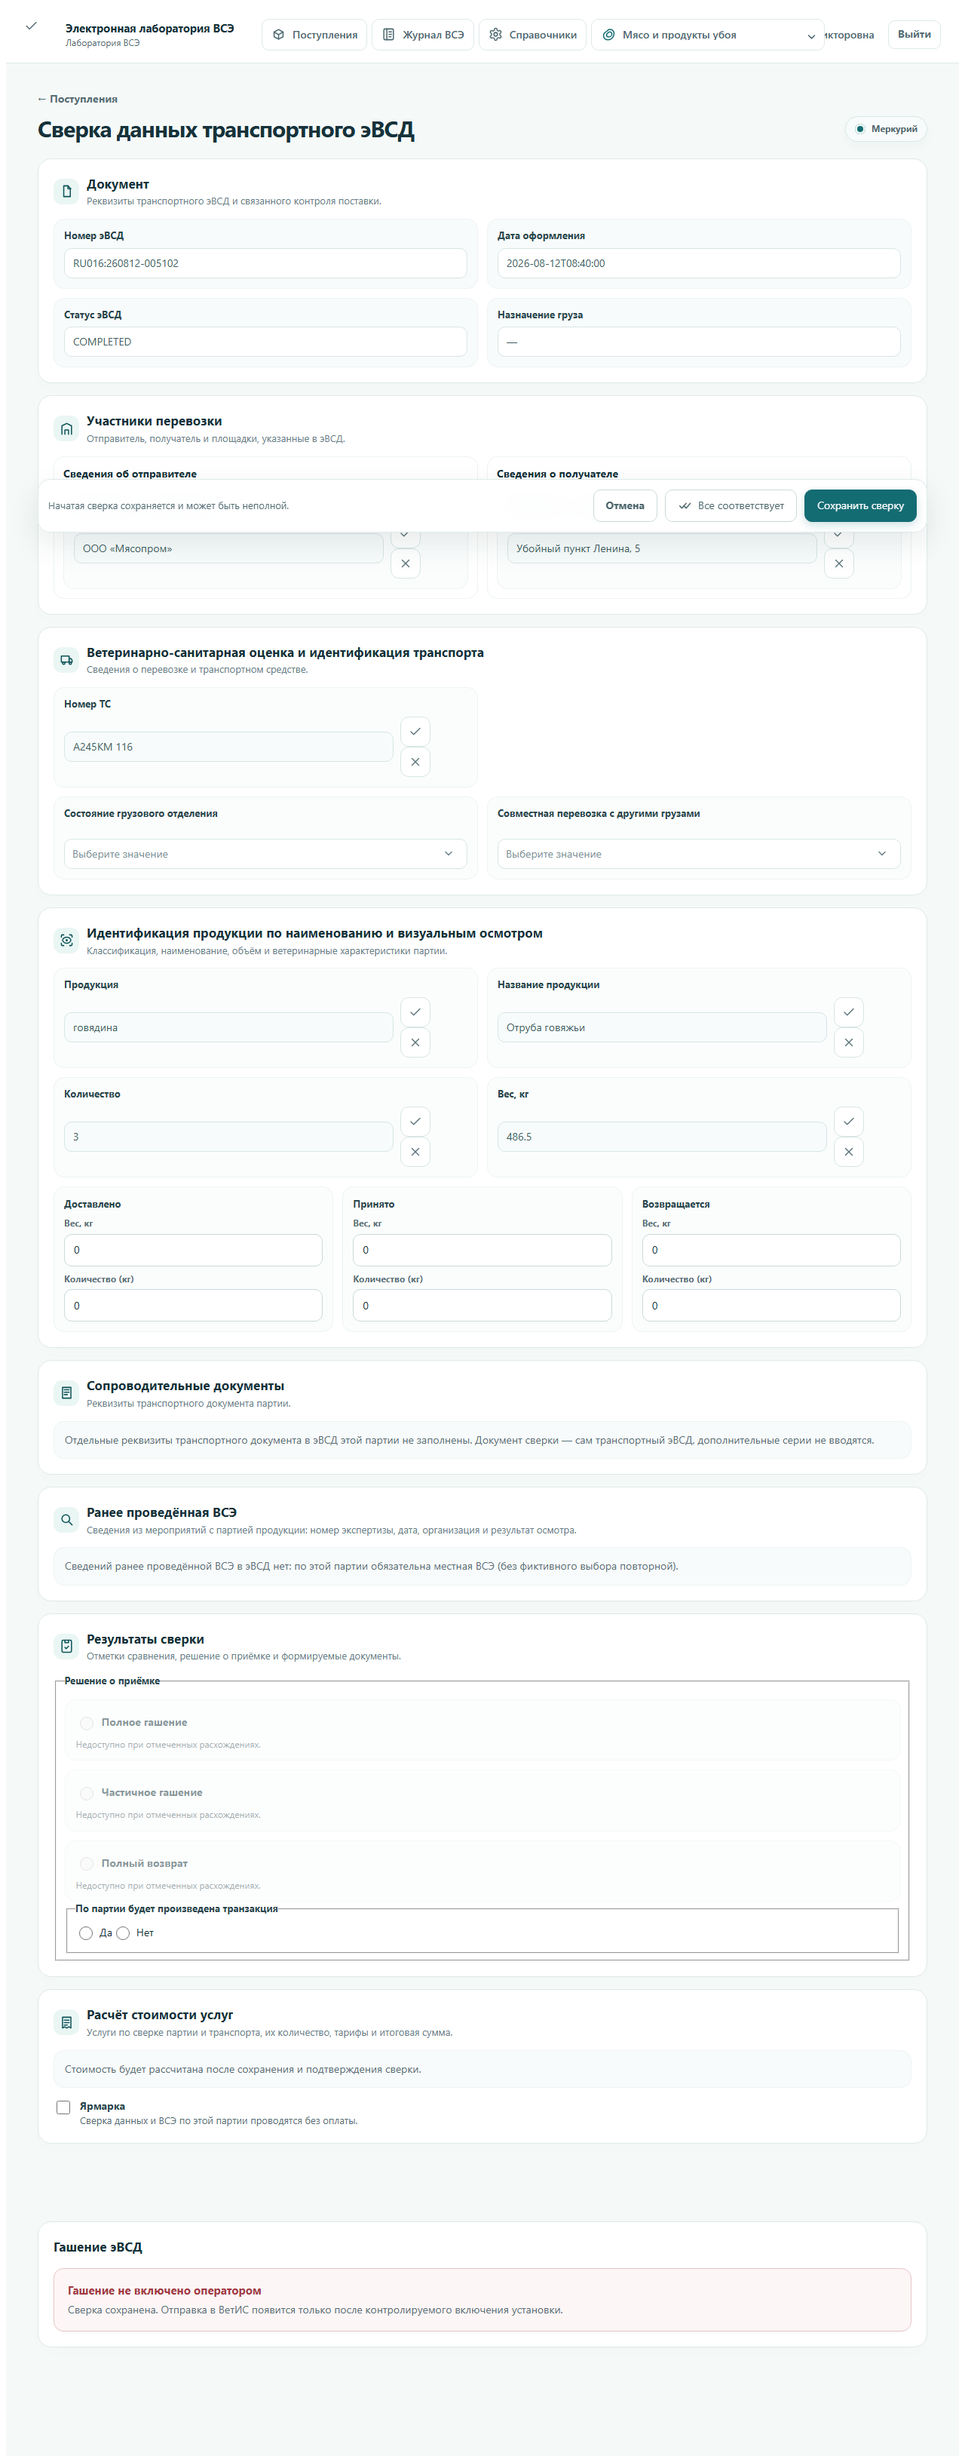
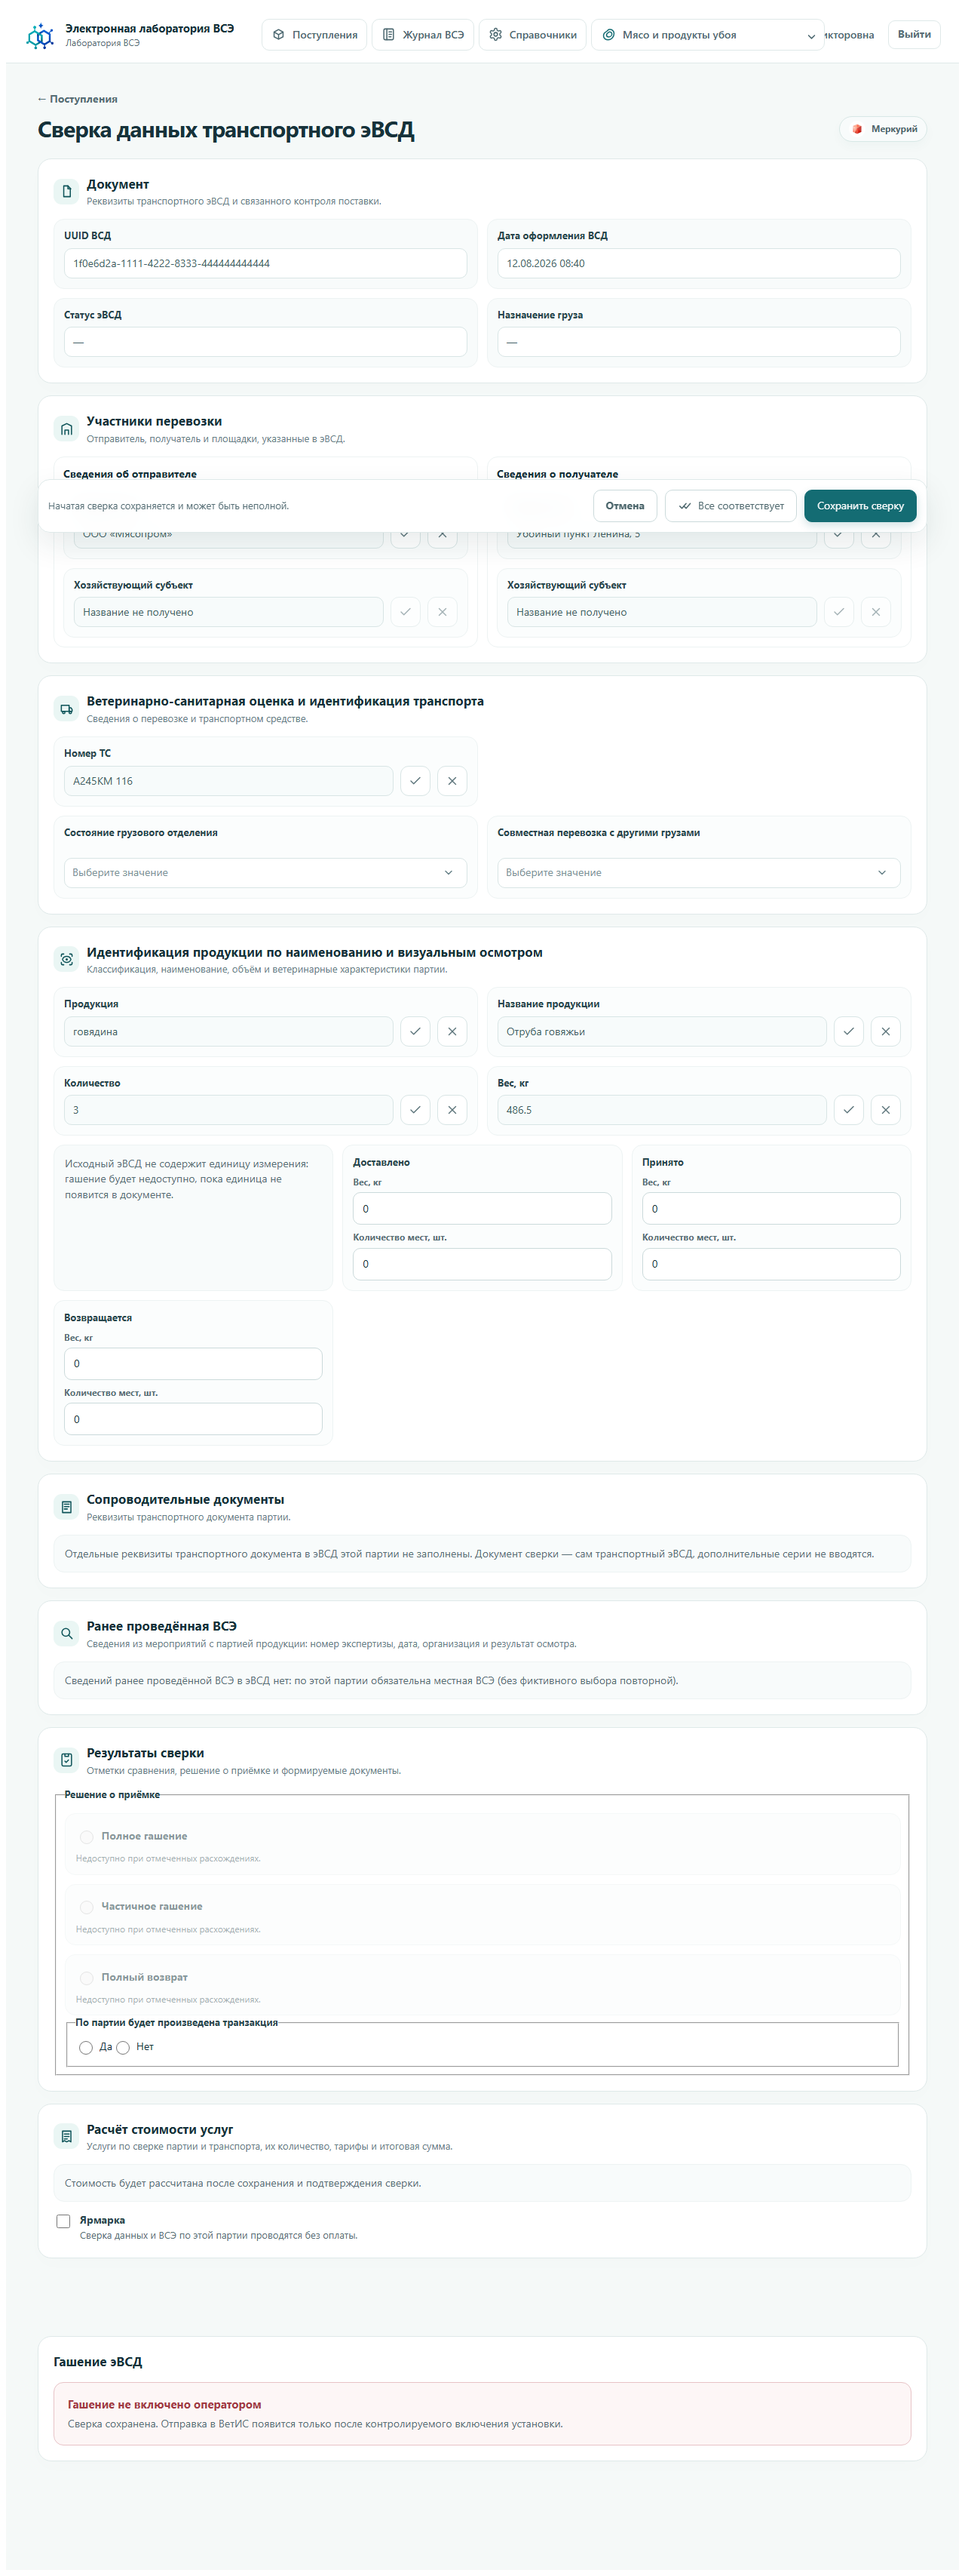
test: verify reconciliation metadata and arrival filters

diff --git a/frontend/tests/e2e/arrivals.spec.ts b/frontend/tests/e2e/arrivals.spec.ts
@@ -545,4 +545,192 @@ test.describe("arrivals", () => {
     await expect(page).toHaveURL(/page=2/);
     await expect(page.getByText("свинина")).toBeVisible();
   });
+
+  // --- ТЗ DR39 e2e: reconciliation metadata, queue-aware sort, date filter ----
+
+  test("WORK shows the real frozen cost, author and completed date; sorting is server order with URL and F5", async ({ page }) => {
+    const errors: string[] = [];
+    page.on("pageerror", (error) => errors.push(String(error)));
+    await mockSessionAndArrivals(page);
+    const workWithSummary = {
+      ...workRowFixture(),
+      reconciliation: {
+        completed_at: "2026-11-05T07:10:00Z", // 10:10 мск
+        author_name: "Иванова Анна Петровна",
+        pricing: { lines: [], fair: false, total: "230.00", currency: "RUB" },
+      },
+    };
+    const older = {
+      ...workWithSummary,
+      party_id: "9c1b2d3e-2222-4222-8333-444444444444",
+      reconciliation: {
+        completed_at: "2026-11-01T07:10:00Z",
+        author_name: "Смирнов Пётр Васильевич",
+        pricing: { lines: [], fair: false, total: "0.00", currency: "RUB" },
+      },
+    };
+    await page.route("**/api/v1/arrivals?*", (route) => {
+      const url = new URL(route.request().url());
+      if (url.searchParams.get("laboratory_id") !== LAB) {
+        return route.fulfill({ status: 403, contentType: "application/json", body: "{}" });
+      }
+      const queue = url.searchParams.get("queue") ?? "EXPECTED";
+      if (queue !== "WORK") {
+        return route.fulfill({ status: 200, contentType: "application/json", body: JSON.stringify({ items: [], total: 0, page: 1, page_size: 20 }) });
+      }
+      // The SERVER answers in its own order; the page must never re-sort.
+      const items = url.searchParams.get("sort") === "asc" ? [older, workWithSummary] : [workWithSummary, older];
+      return route.fulfill({
+        status: 200,
+        contentType: "application/json",
+        body: JSON.stringify({ items, total: 2, page: 1, page_size: 20 }),
+      });
+    });
+
+    await page.goto(`/labs/${LAB}/arrivals?queue=work&sort=asc`);
+    await expect(page.getByText("230,00 ₽")).toBeVisible();
+    await expect(page.getByText("Иванова Анна Петровна")).toBeVisible();
+    await expect(page.getByText("05.11.2026 10:10")).toBeVisible();
+    await expect(page.getByRole("cell", { name: "0,00 ₽", exact: true })).toBeVisible(); // a zero is DATA
+    // asc order: the older сверка first (server order kept).
+    const cells = await page.locator("tbody tr td:first-child").allTextContents();
+    expect(cells).toEqual(["01.11.2026 10:10", "05.11.2026 10:10"]);
+
+    // Switch to desc: URL updates, the order flips.
+    await page.getByLabel("Сортировка").selectOption("desc");
+    await expect(page).toHaveURL(/queue=work/);
+    await expect(page).not.toHaveURL(/sort=asc/);
+    await expect(page.locator("tbody tr td:first-child").first()).toHaveText("05.11.2026 10:10");
+    // F5 keeps the filter state (desc default: the URL stays clean).
+    await page.reload();
+    await expect(page.locator("tbody tr td:first-child").first()).toHaveText("05.11.2026 10:10");
+    await expect(page.getByText("Иванова Анна Петровна")).toBeVisible();
+    expect(errors).toEqual([]);
+  });
+
+  test("ACCEPTED: apply one день, a range and сбросить; URL and rows survive F5", async ({ page }) => {
+    const listReads: string[] = [];
+    const errors: string[] = [];
+    page.on("pageerror", (error) => errors.push(String(error)));
+    await mockSessionAndArrivals(page);
+    const accepted = {
+      ...acceptedRowFixture(),
+      reconciliation: {
+        completed_at: "2026-11-05T21:00:00Z", // 00:00 мск 06.11
+        author_name: "Иванова Анна Петровна",
+        pricing: { lines: [], fair: false, total: "230.00", currency: "RUB" },
+      },
+    };
+    await page.route("**/api/v1/arrivals?*", (route) => {
+      const url = new URL(route.request().url());
+      if (url.searchParams.get("laboratory_id") !== LAB) {
+        return route.fulfill({ status: 403, contentType: "application/json", body: "{}" });
+      }
+      const queue = url.searchParams.get("queue") ?? "EXPECTED";
+      if (queue === "ACCEPTED" && url.searchParams.has("page") === false) listReads.push(url.search);
+      if (queue !== "ACCEPTED") {
+        return route.fulfill({ status: 200, contentType: "application/json", body: JSON.stringify({ items: [], total: 0, page: 1, page_size: 20 }) });
+      }
+      // One день exactly: the mock honours the wire filter.
+      const on = url.searchParams.get("reconciled_on");
+      const filtered = on === "2026-11-06" ? [] : [accepted];
+      return route.fulfill({
+        status: 200,
+        contentType: "application/json",
+        body: JSON.stringify({ items: filtered, total: filtered.length, page: 1, page_size: 20 }),
+      });
+    });
+
+    await page.goto(`/labs/${LAB}/arrivals?queue=accepted`);
+    await expect(page.getByText("06.11.2026 00:00")).toBeVisible();
+    await expect(page.getByText("Иванова Анна Петровна")).toBeVisible();
+
+    // Apply one день: the row leaves the result, the URL carries the param.
+    await page.getByRole("button", { name: /Дата сверки данных/ }).click();
+    await page.getByRole("textbox", { name: "Дата", exact: true }).fill("2026-11-06");
+    await page.getByRole("button", { name: "Применить" }).click();
+    await expect(page).toHaveURL(/reconciled_on=2026-11-06/);
+    await expect(page.getByText(/06\.11\.2026/)).toBeVisible(); // Russian summary
+    await expect(page.getByText(/не найдены/)).toBeVisible(); // the honest empty state
+
+    // F5: the filter survives and still filters.
+    await page.reload();
+    await expect(page).toHaveURL(/reconciled_on=2026-11-06/);
+    await expect(page.getByText(/не найдены/)).toBeVisible();
+
+    // Сбросить: all reconciled_* disappear from the URL, the row returns.
+    await page.getByRole("button", { name: /Дата сверки данных/ }).click();
+    await page.getByRole("button", { name: "Сбросить" }).click();
+    await expect(page).not.toHaveURL(/reconciled/);
+    await expect(page.getByText("06.11.2026 00:00")).toBeVisible();
+
+    // A range: both bounds go to the wire in the offset ISO form.
+    await page.getByRole("button", { name: /Дата сверки данных/ }).click();
+    await page.getByRole("radio", { name: "Диапазон" }).click();
+    await page.getByLabel("С", { exact: true }).fill("2026-11-05T10:00");
+    await page.getByLabel("По", { exact: true }).fill("2026-11-06T18:30");
+    await page.getByRole("button", { name: "Применить" }).click();
+    await expect(page).toHaveURL(/reconciled_from=2026-11-05T10/);
+    await expect(page).toHaveURL(/reconciled_to=/);
+    expect(errors).toEqual([]);
+  });
+
+  test("the date never leaves ACCEPTED: other queues and tab counters stay clean", async ({ page }) => {
+    const reads: string[] = [];
+    await mockSessionAndArrivals(page);
+    await mockStageRows(page);
+    await page.route("**/api/v1/arrivals?*", (route) => {
+      const url = new URL(route.request().url());
+      const queue = url.searchParams.get("queue") ?? "EXPECTED";
+      reads.push(url.search);
+      const item = queue === "EXPECTED" ? singleView : queue === "WORK" ? workRowFixture() : null;
+      return route.fulfill({
+        status: 200,
+        contentType: "application/json",
+        body: JSON.stringify({ items: item ? [item] : [], total: item ? 1 : 0, page: 1, page_size: 20 }),
+      });
+    });
+    // A stale deep link: the params are stripped from the URL and the reads.
+    await page.goto(`/labs/${LAB}/arrivals?queue=work&reconciled_on=2026-11-06&reconciled_from=2026-11-05T10%3A00%3A00%2B03%3A00`);
+    await expect(page.getByText("говядина")).toBeVisible();
+    await expect(page).not.toHaveURL(/reconciled/);
+    expect(reads.every((entry) => !entry.includes("reconciled"))).toBe(true);
+  });
+
+  test("ACCEPTED date filter works on 390 px with the keyboard", async ({ page }) => {
+    const errors: string[] = [];
+    page.on("pageerror", (error) => errors.push(String(error)));
+    await mockSessionAndArrivals(page);
+    await mockStageRows(page);
+    await page.setViewportSize({ width: 390, height: 844 });
+    await page.goto(`/labs/${LAB}/arrivals?queue=accepted`);
+    await page.goto(`/labs/${LAB}/arrivals?queue=accepted`);
+    await expect(page.getByText("говядина")).toBeVisible();
+    const trigger = page.getByRole("button", { name: /Дата сверки данных/ });
+    await trigger.focus();
+    await page.keyboard.press("Enter");
+    await expect(page.getByRole("group", { name: "Дата сверки данных" })).toBeVisible();
+    await page.keyboard.press("Escape");
+    await expect(page.getByRole("group", { name: "Дата сверки данных" })).toBeHidden();
+    await expect(trigger).toBeFocused();
+    const overflow = await page.evaluate(
+      () => document.documentElement.scrollWidth - document.documentElement.clientWidth,
+    );
+    expect(overflow).toBeLessThanOrEqual(0);
+    expect(errors).toEqual([]);
+  });
+
+  test("an empty result and a network error keep the honest states", async ({ page }) => {
+    await mockSessionAndArrivals(page);
+    await page.route("**/api/v1/arrivals?*", (route) => {
+      const url = new URL(route.request().url());
+      if (url.searchParams.get("queue") === "ACCEPTED") {
+        return route.fulfill({ status: 500, contentType: "application/json", body: JSON.stringify({ code: "NETWORK", detail: "Сеть недоступна." }) });
+      }
+      return route.fulfill({ status: 200, contentType: "application/json", body: JSON.stringify({ items: [], total: 0, page: 1, page_size: 20 }) });
+    });
+    await page.goto(`/labs/${LAB}/arrivals?queue=accepted`);
+    await expect(page.getByText(/Не удалось загрузить поступления/)).toBeVisible();
+    await expect(page.getByRole("button", { name: "Повторить" })).toBeVisible();
+  });
 });
